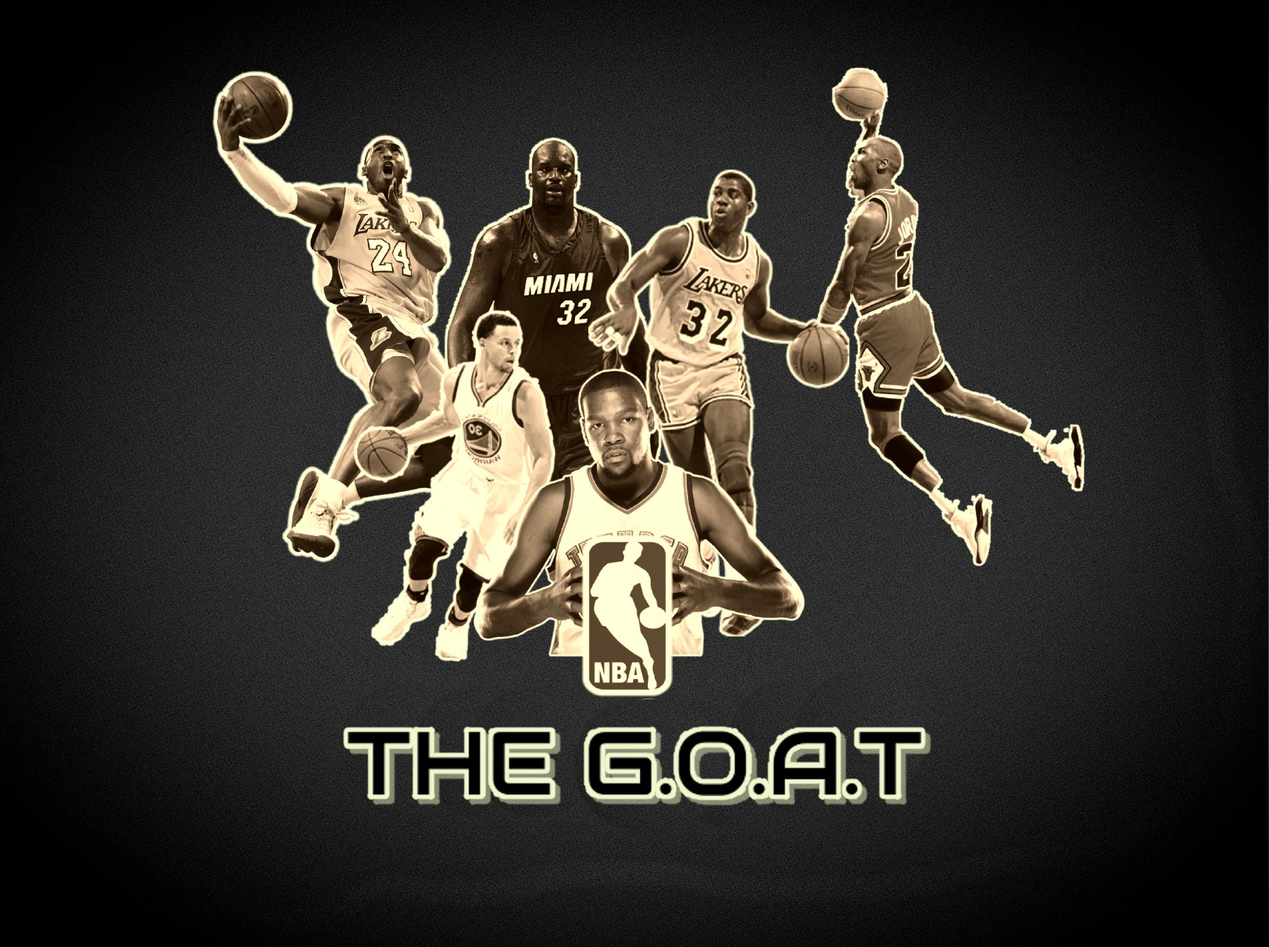
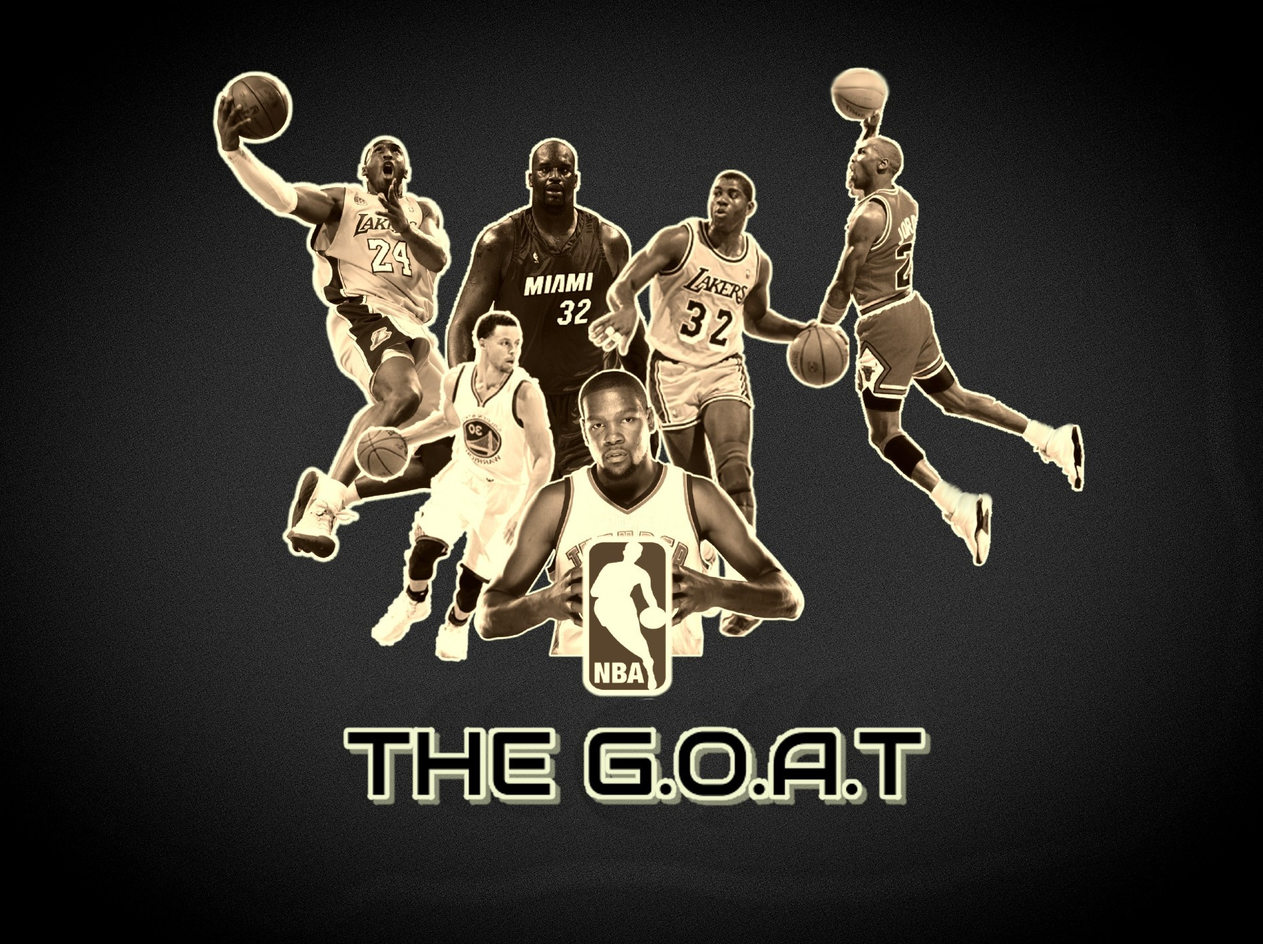
modify bg

diff --git a/the-goat/src/components/StartButton.js b/the-goat/src/components/StartButton.js
@@ -15,56 +15,17 @@ function StartButton () {
       
   };
   return (
-    <div className='bgMain'>
-      
+    
+      <>
         <div className='myButton'>
         <Link to="/Game">
           <img onClick={navigateGame} src={Img1} alt="Start The Game" />
         </Link>
         </div>
-      
-    </div>
+      </>
+    
   );
 }
-
-
-
-// export default function Navigate() {
-//   
-
-//   const navigateHome = () => {
-//     // 👇 navigate to /
-//     navigate('/');
-//   };
-
-//   return (
-//     <div>
-//       <div>
-//         <button onClick={navigateHome}>Home</button>
-//         <hr />
-//         <button onClick={navigateToContacts}>Contacts</button>
-
-//         <Routes>
-//           <Route path="/contacts" element={<Contacts />} />
-//           <Route path="/" element={<Home />} />
-//         </Routes>
-//       </div>
-//     </div>
-//   );
-// }
-
-// function Home() {
-//   return <h2>Home</h2>;
-// }
-
-// function Contacts() {
-//   return <h2>Contacts</h2>;
-// }
-
-
-
-
-
 
 
 export default StartButton;

diff --git a/the-goat/src/components/Home.css b/the-goat/src/components/Home.css
@@ -1,9 +1,25 @@
 .bghome {
-display: flex;
+/* display: flex; */
   background-image: url('../components/image/the-goat-BG.jpg');
-  width: 100%;
-  height: 100%;
+  /*top: 0; 
+  left: 0; 
+  
+  width: 100vw;
+  height: 100vw;
+ 
+ 
+}
+
+img.fondecran { */
+  /* On met en place le fond d'écran */
+ 
+  /* On indique un redimensionnement proportionnel */
+  width: 100vw;
+  height: 100vh;
   background-size: contain;
   background-repeat: no-repeat;
+  background-color: #000000;
   
-}
+  background-position: 50%;
+  position: fixed;
+ }

diff --git a/the-goat/src/components/StartVideo.js b/the-goat/src/components/StartVideo.js
@@ -14,17 +14,17 @@ function StartVideo() {
       };
     
       return (
-        <div className='video'>
-            
+        
+          <>
             <div className="toogleBtn">
                 <img onClick={toggleContent} src={ballon} alt=""/>
                 {content && (
-                    <>
+                    
                      <VideoContain />
-                    </>
+                    
                 )}
             </div>
-        </div>
+          </>
       );
     }
     

diff --git a/the-goat/src/routes/Home.js b/the-goat/src/routes/Home.js
@@ -3,15 +3,16 @@ import StartButton from "../components/StartButton";
 import StartVideo from "../components/StartVideo";
 
 import "../components/Home.css";
-import theGoat from "../components/image/the-goat-BG.jpg";
+
 
 function Home (){
   return (
+    <>
     <div className="bghome"  >
-        <img className='bghome' src={theGoat} alt="" />
         <StartVideo/>
         <StartButton/>
     </div>
+    </>
   )
 }
 

diff --git a/the-goat/src/components/StartVideo.css b/the-goat/src/components/StartVideo.css
@@ -1,8 +1,8 @@
 .toogleBtn img{
-    width: 10%;
+    width: 7%;
     position: absolute;
-    top: 96%;
-    right: 46%;
+    top: 56%;
+    right: 47%;
     
 }
 

diff --git a/the-goat/src/components/StartButton.css b/the-goat/src/components/StartButton.css
@@ -1,6 +1,6 @@
 .myButton img{
     position: absolute;
-    top:  150%;
-    right: 48%;
-    width : 7%;
+    top:  33%;
+    right: 37%;
+    width : 4%;
 }
